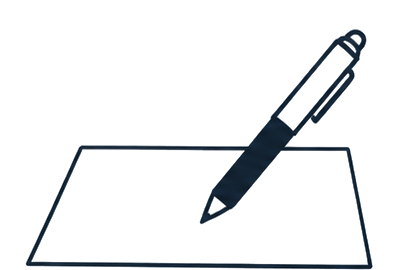
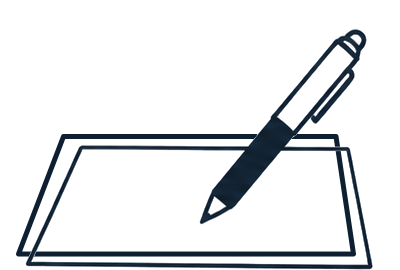
Zayavka block: same gradient background as Бесплатная консультация; pen illustration now shows two stacked paper sheets instead of one (second sheet composited behind, peeking out top-left/bottom-left)

Changed region(s): [[0.03, 0.4741, 0.9, 0.9778]]

diff --git a/assets/css/styles.css b/assets/css/styles.css
@@ -1176,7 +1176,11 @@
   /* Блок "Ваш уникальный путь к успеху" — тот же приём, что у
      "Бесплатная консультация": рамка, Luga, обводка пустых полей ввода.
      Фон намеренно не трогаем. */
-  #zayavka .cta { border-color: #17243A; border-width: 2px; }
+  #zayavka .cta {
+    background: linear-gradient(90deg, #B0B6CA 0%, #FFFFFF 100%);
+    border-color: #17243A;
+    border-width: 2px;
+  }
   #zayavka h2,
   #zayavka p,
   #zayavka li,
